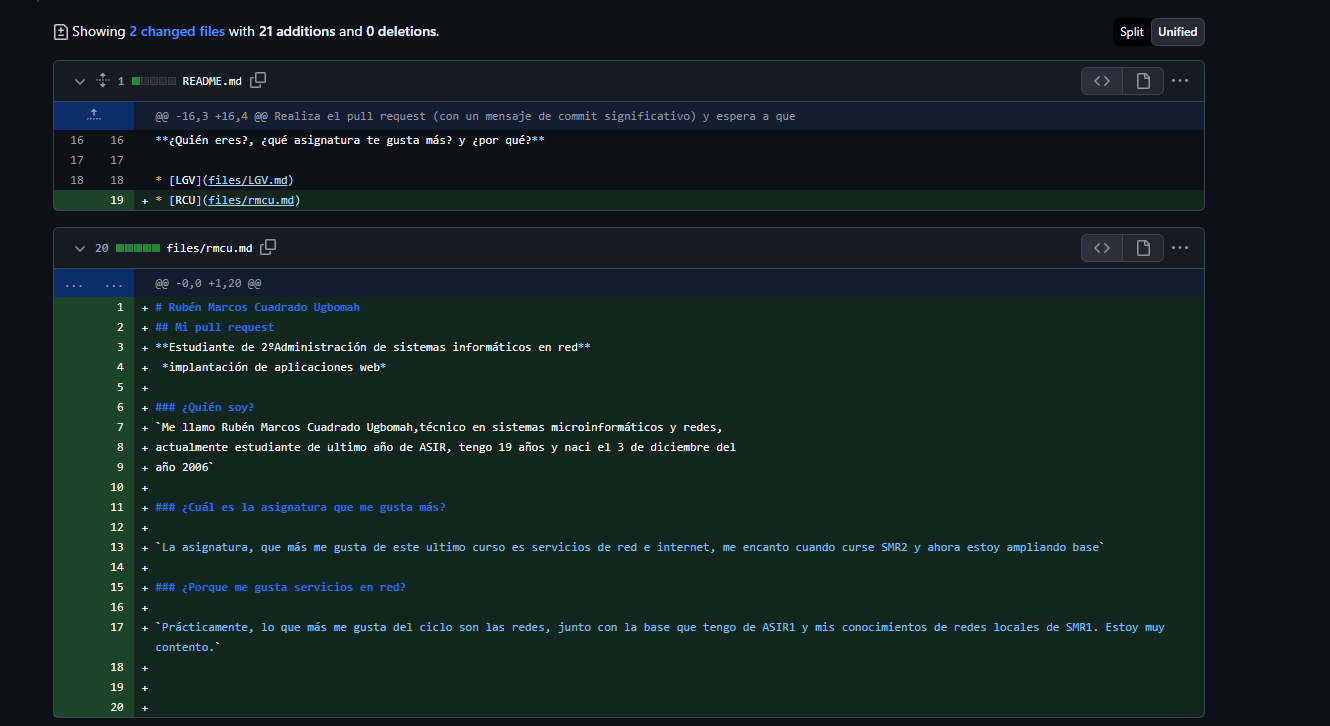
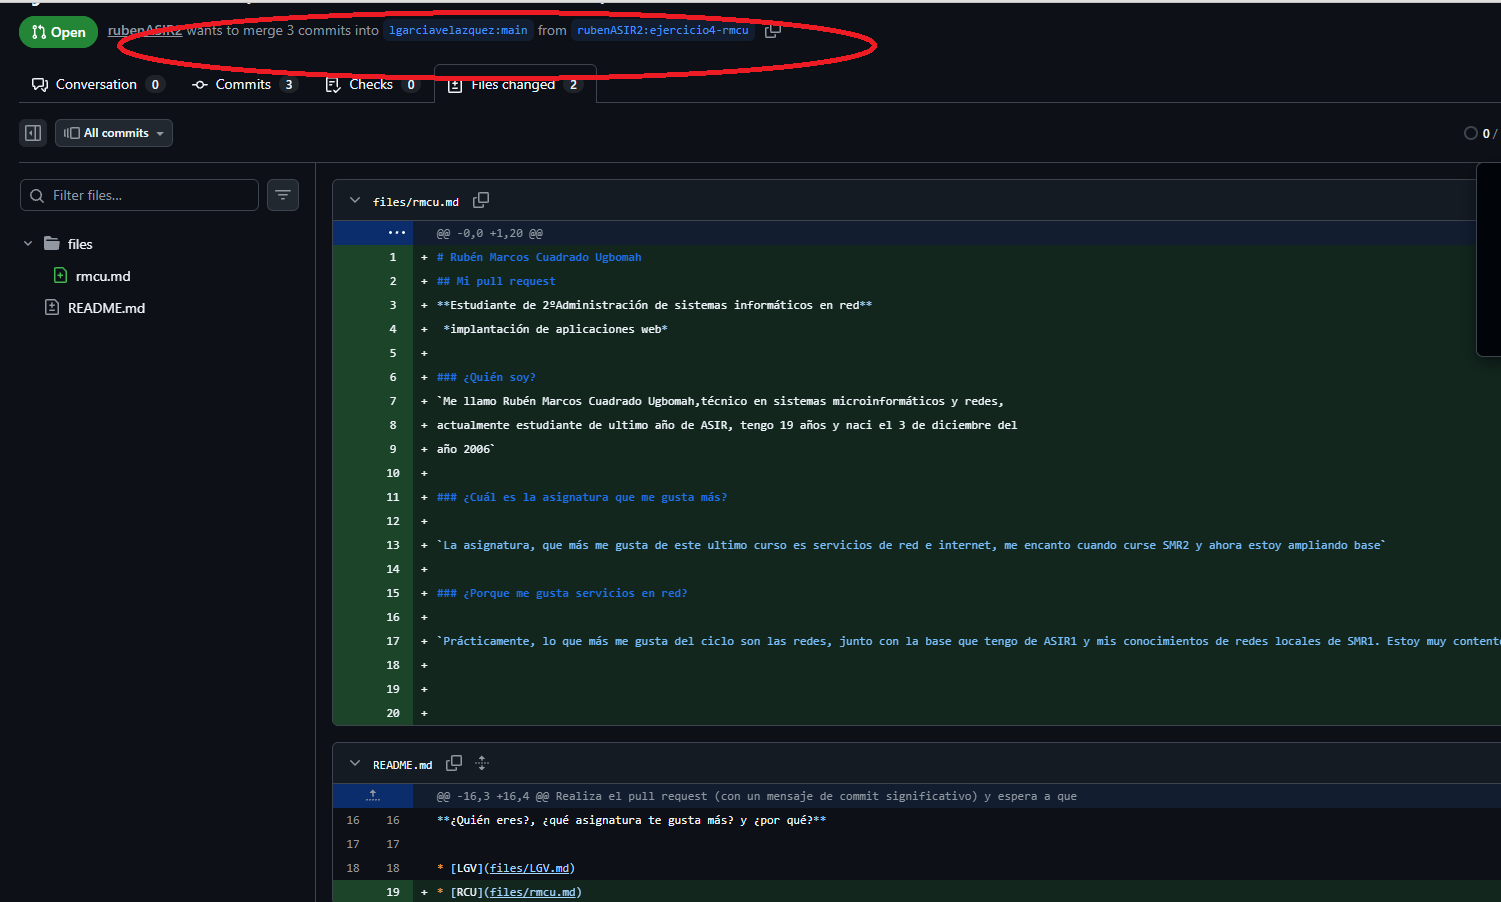
correcion del ejercicio

diff --git a/actividad1_1/Ejercicio4colaboraciónpullrequest/Ejercicio4.md b/actividad1_1/Ejercicio4colaboraciónpullrequest/Ejercicio4.md
@@ -27,21 +27,44 @@
 * Para la clonación utilizaremos el siguiente código(y nos llevamos el repositorio para trabajar localmente con el)
 * `git clone https://TU_USUARIO:TU_TOKEN@github.com/USUARIO/REPOSITORIO.git`
 * ![Captura6](images/Clonacióndelrepositoriodeiaw202627.png)
-* Ahora lo que hacemos es incluir nuestro archivo en el repositorio, en la carpeta files, y luego en el readme creamos un enlace.
-* ![Captura7](images/rmcuenpriaw202627.png)
-* ![Captura8](images/Modificaciónreadmepriawparaincluirnuestroarchivo.png)
-* por ultimo guardaremos los cambios, git add, git commit , git push(desde la terminal)
-* ![Captura9](images/Gitstatusgitaddgitcommitgitpushoriginmainprueba-pr-iaw_202627.png)
-* ![Captura10](images/Gitpushoriginmainconnuestroarchivo.png)
-* Luego en nuestro repositorio clonado,comprobaremos que se encuentran los cambios hechos
-* ![Captura11](images/Comprobacionrepositorio.png)
-* ![Captura12](images/Comprobacionrepositorio2.png)
-* ![Captura13](images/Comprobacionrepositorio3.png)
-* Realizaremos el pull request y esperaremos a que sea aceptado por el profesor
-* A continuación se muestran capturas de todo el proceso
-* ![Captura14](images/pullrequest1.png)
-* ![Captura15](images/pullrequest2.png)
-* ![Captura16](images/Pullrequest3.png)
-* ![Captura17](images/Pullrequest4.png)
-* ![Captura18](images/Pullrequest5.png)
-* ![Captura19](images/Pullrequestimagenfinal.png)
+### Creación de una nueva rama de trabajo
+
+Para realizar el Pull Request, creé una nueva rama llamada `ejercicio4-rmcu` en mi repositorio local. De esta manera, puedo trabajar con una rama independiente de `main` y utilizarla para solicitar que el profesor incorpore mis cambios al repositorio original.
+
+En primer lugar, me situé en la rama principal de mi repositorio:
+
+```bash
+git switch main
+```
+* ![Captura7](images/Gitswitchmain.png)
+A continuación, creé la nueva rama y cambié a ella mediante el siguiente comando:
+
+```bash
+git switch -c ejercicio4-rmcu
+```
+
+Para comprobar que la rama se había creado correctamente, ejecuté:
+
+```bash
+git branch
+```
+* ![Captura8](images/Creacionnuevarama.png)
+
+Ahora a continuación pasamos el archivo rcmu a la carpeta iaw202627, e incluimos nuestro enlace.
+* ![Captura9](images/pasamoselrmcualpriaw.png)
+* ![Captura10](images/Enlaceenfilesrmcu.png)
+
+Después, subí la nueva rama a mi repositorio remoto de GitHub:
+
+```bash
+git add
+git commit -m "subida del request a rama ejercicio4-rmcu)
+git push -u origin ejercicio4-rmcu
+```
+* ![Captura11](images/gitaddgitcommitgitpushejercicio4-rmcu.png)
+* ![Captura12](images/gitpushoriginejercicio4-rmcu.png)
+*Con estos pasos, la rama `ejercicio4-rmcu` quedó disponible en GitHub para realizar el Pull Request*
+*A continuación muestro el estado final de pull request* 
+* ![Captura13](images/pullrequest.png)
+* ![Captura14](images/pullrequest2.png)
+* ![Captura15](images/pullrequest3.png)
